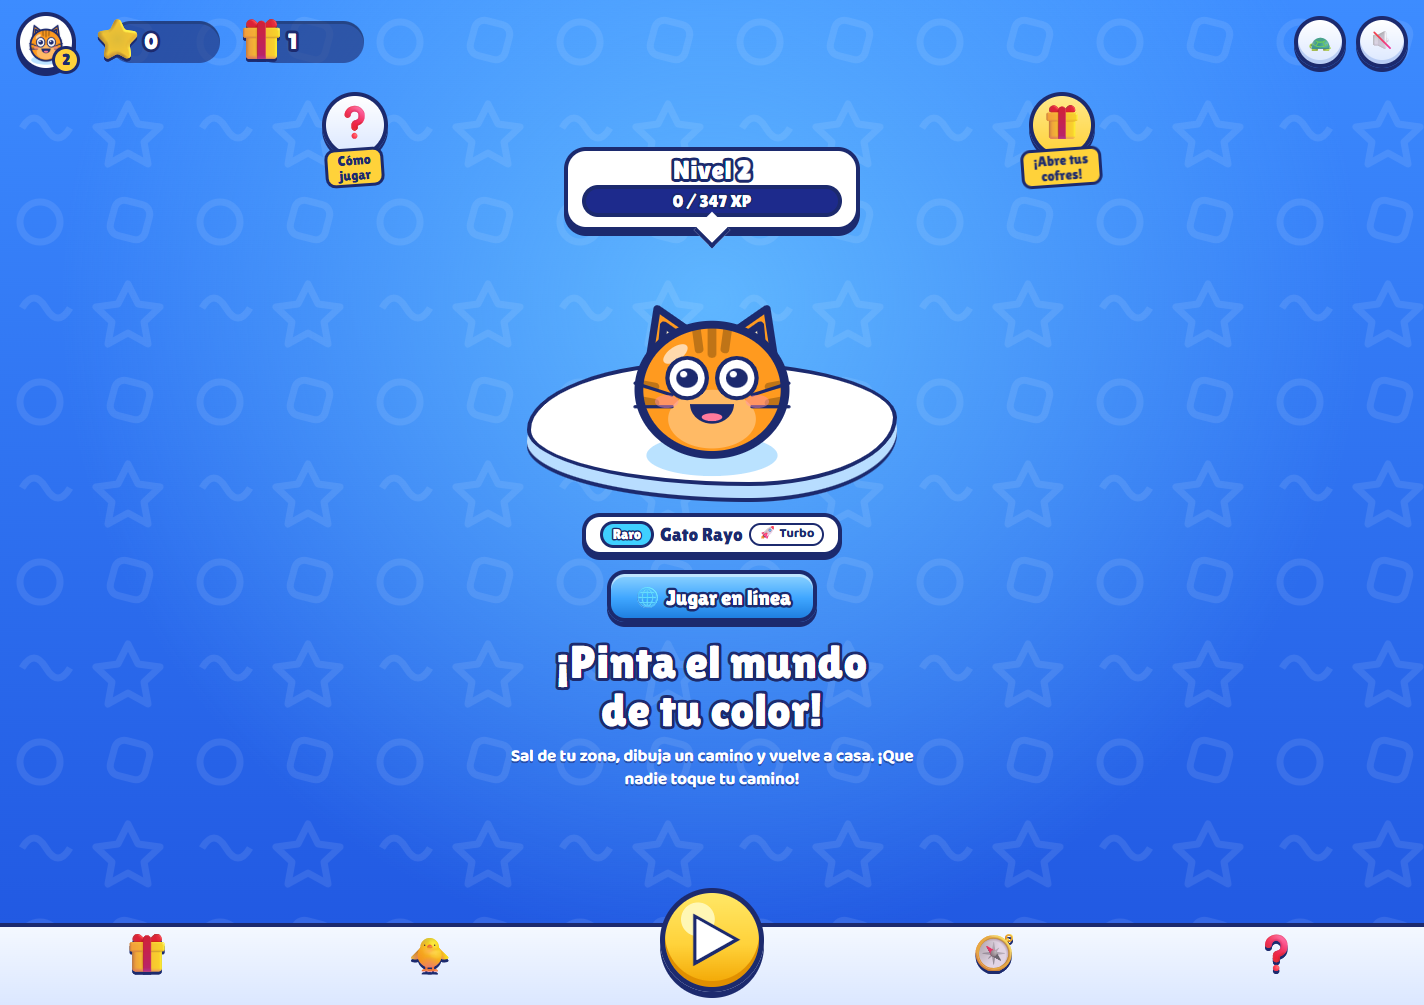
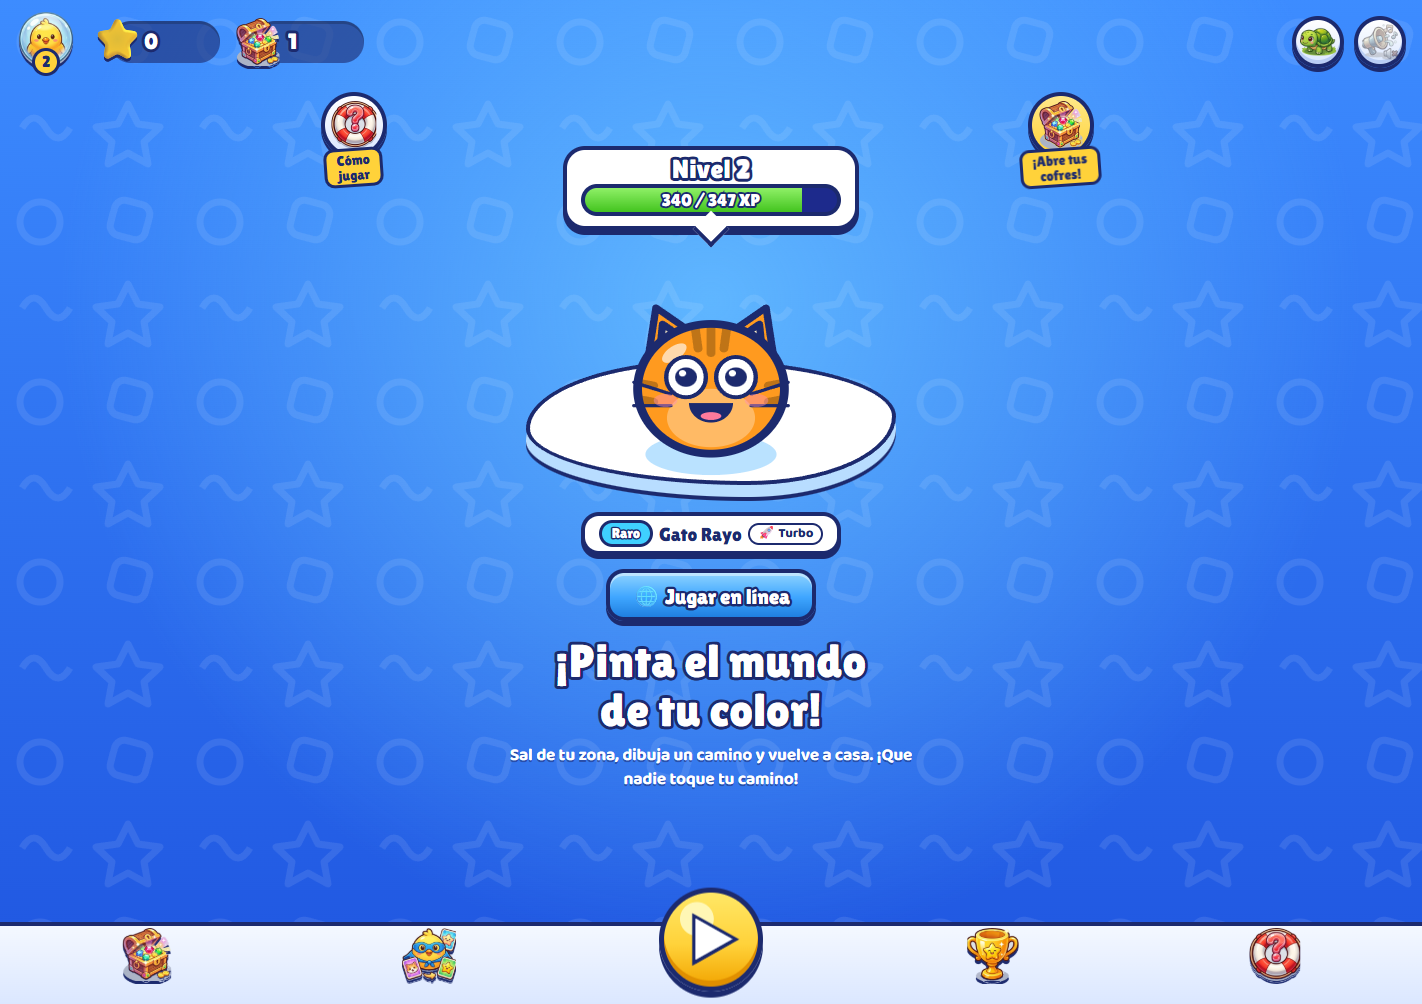
Iconos cartoon en la interfaz
Pestañas, insignia de nivel, contador de cofres, modo fácil, sonido, ayuda y botón de inicio usan las nuevas ilustraciones (ui/), recortadas con fondo transparente.

diff --git a/index.html b/index.html
@@ -46,12 +46,12 @@
   <aside id="rotate-prompt" class="rotate-prompt"><span class="rotate-phone" aria-hidden="true">📱</span><h2 class="outlined">¡Gira el teléfono!</h2><p>Pintamundo se juega de lado.<br>Usa tus dos pulgares.</p></aside>
   <main id="menu" class="menu">
     <header class="topbar">
-      <button class="level-badge" data-tab="progress" aria-label="Ver mi progreso"><img id="menu-avatar" alt=""><span id="menu-level">1</span></button>
+      <button class="level-badge" data-tab="progress" aria-label="Ver mi progreso"><img class="ui-icon" src="ui/level.png" alt=""><span id="menu-level">1</span></button>
       <div class="currency"><span class="currency-icon" aria-hidden="true">⭐</span><strong id="menu-bits">0</strong></div>
-      <div class="currency"><span class="currency-icon" aria-hidden="true">🎁</span><strong id="menu-crates">0</strong></div>
+      <div class="currency"><span class="currency-icon" aria-hidden="true"><img class="ui-icon" src="ui/chest.png" alt=""></span><strong id="menu-crates">0</strong></div>
       <div class="topbar-actions">
-        <button id="easy" class="round-button" aria-pressed="false" aria-label="Modo fácil" title="Modo fácil">🐢</button>
-        <button id="sound" class="round-button" aria-pressed="false" aria-label="Activar sonido">🔇</button>
+        <button id="easy" class="round-button" aria-pressed="false" aria-label="Modo fácil" title="Modo fácil"><img class="ui-icon" src="ui/easy.png" alt=""></button>
+        <button id="sound" class="round-button" aria-pressed="false" aria-label="Activar sonido"><img class="ui-icon" src="ui/sound.png" alt=""></button>
       </div>
     </header>
     <div class="screens">
@@ -62,8 +62,8 @@
         <button id="online" class="online-button">🌐 Jugar en línea</button>
         <h1 class="outlined">¡Pinta el mundo<br>de tu color!</h1>
         <p class="home-tip">Sal de tu zona, dibuja un camino y vuelve a casa. ¡Que nadie toque tu camino!</p>
-        <div class="home-side left"><button class="side-badge" id="help-side" data-help><span>❓</span><b>Cómo<br>jugar</b></button></div>
-        <div class="home-side right"><button class="side-badge" data-tab="crates" id="free-crate-badge" hidden><span>🎁</span><b>¡Abre tus<br>cofres!</b></button><span class="side-badge easy-badge" id="easy-badge" hidden><span>🐢</span><b>Modo<br>fácil</b></span></div>
+        <div class="home-side left"><button class="side-badge" id="help-side" data-help><span><img class="ui-icon" src="ui/help.png" alt=""></span><b>Cómo<br>jugar</b></button></div>
+        <div class="home-side right"><button class="side-badge" data-tab="crates" id="free-crate-badge" hidden><span><img class="ui-icon" src="ui/chest.png" alt=""></span><b>¡Abre tus<br>cofres!</b></button><span class="side-badge easy-badge" id="easy-badge" hidden><span><img class="ui-icon" src="ui/easy.png" alt=""></span><b>Modo<br>fácil</b></span></div>
       </section>
       <section class="screen screen-crates" data-screen="crates" hidden>
         <div class="awning" aria-hidden="true"></div>
@@ -98,11 +98,11 @@
       </section>
     </div>
     <nav class="tabbar" aria-label="Menú principal">
-      <button class="tab" data-tab="crates"><span>🎁</span><b>Cofres</b></button>
-      <button class="tab" data-tab="collection"><span>🐥</span><b>Colección</b></button>
+      <button class="tab" data-tab="crates"><span><img class="ui-icon" src="ui/chest.png" alt=""></span><b>Cofres</b></button>
+      <button class="tab" data-tab="collection"><span><img class="ui-icon" src="ui/collection.png" alt=""></span><b>Colección</b></button>
       <button id="play" class="play-button" aria-label="¡A jugar!"><span id="play-icon">▶</span></button>
-      <button class="tab" data-tab="progress"><span>🧭</span><b>Progreso</b></button>
-      <button id="help" class="tab" data-help><span>❓</span><b>Ayuda</b></button>
+      <button class="tab" data-tab="progress"><span><img class="ui-icon" src="ui/trophy.png" alt=""></span><b>Progreso</b></button>
+      <button id="help" class="tab" data-help><span><img class="ui-icon" src="ui/help.png" alt=""></span><b>Ayuda</b></button>
     </nav>
   </main>
   <dialog id="dialog"><div id="dialog-content"></div></dialog>

diff --git a/game.js b/game.js
@@ -92,7 +92,7 @@ function tone(kind = 'capture') {
 $('sound').onclick = () => {
   sound = !sound; $('sound').setAttribute('aria-pressed', String(sound));
   $('sound').setAttribute('aria-label', sound ? 'Desactivar sonido' : 'Activar sonido');
-  $('sound').textContent = sound ? '🔊' : '🔇'; tone('orb');
+  tone('orb');
 };
 function renderEasy() {
   $('easy').setAttribute('aria-pressed', String(profile.easy === true));
@@ -176,7 +176,6 @@ function renderMenu() {
   $('menu-level').textContent = level;
   $('menu-bits').textContent = number(profile.bits);
   $('menu-crates').textContent = totalChests();
-  $('menu-avatar').src = renderer.portraitURL({ skin: profile.skin, color: playerColor() });
   $('home-level').textContent = level; $('home-xp-label').textContent = xpText; $('home-xp').style.width = xpWidth;
   $('road-level').textContent = 'NIVEL ' + level; $('road-xp').textContent = xpText; $('xp-fill').style.width = xpWidth;
   document.querySelectorAll('[data-road]').forEach(el => {
@@ -201,7 +200,7 @@ function showScreen(name) {
   document.querySelectorAll('.tab[data-tab]').forEach(el => el.classList.toggle('current', el.dataset.tab === name));
   $('menu').dataset.screen = name;
   $('play').classList.toggle('home', name !== 'home');
-  $('play-icon').textContent = name === 'home' ? '▶' : '🏠';
+  $('play-icon').innerHTML = name === 'home' ? '▶' : '<img class="ui-icon" src="ui/home.png" alt="">';
   $('play').setAttribute('aria-label', name === 'home' ? '¡A jugar!' : 'Volver al inicio');
   document.querySelector('.screens').scrollTop = 0;
   renderMenu();

diff --git a/styles.css b/styles.css
@@ -542,3 +542,17 @@ body.spectating .joystick,body.spectating .abilities,body.spectating .danger { d
   .earned-chests .prize-chest { padding:2px 10px; font-size:14px }
   .earned-chests .prize-chest svg { width:36px }
 }
+
+/* Cartoon interface icons (ui/*.png), sized to the button that holds them */
+.ui-icon { display:block; width:1.3em; height:1.3em; object-fit:contain; pointer-events:none; -webkit-user-drag:none; user-select:none }
+.tab>span .ui-icon { width:1.4em; height:1.4em }
+.currency-icon .ui-icon { width:1.2em; height:1.2em }
+.round-button .ui-icon { width:82%; height:82% }
+.side-badge>span .ui-icon { width:82%; height:82% }
+.play-button.home span .ui-icon { width:62px; height:62px }
+#sound[aria-pressed="false"] .ui-icon { filter:grayscale(.8); opacity:.55 }
+/* The level art is already a bubble: no frame; the real level covers the number drawn on it. */
+.level-badge { border:0; background:none; box-shadow:none }
+.level-badge img { border-radius:0; filter:drop-shadow(0 3px 0 var(--ink)) }
+.level-badge span { left:50%; right:auto; bottom:-4px; transform:translateX(-50%) }
+@media(orientation:landscape) and (max-height:560px) { .play-button.home span .ui-icon { width:50px; height:50px } }

diff --git a/README.md b/README.md
@@ -156,6 +156,7 @@ El servidor público está en **https://pintamundo.onrender.com**, creado desde 
 - `game.js`: bucle, joystick multitáctil, HUD, audio, orientación, pantalla completa y persistencia.
 - `cloud.js`: inicio de sesión con Google y copia del perfil en Firestore (solo en la app).
 - `index.html` / `styles.css`: menú y HUD móvil horizontal.
+- `ui/`: iconos cartoon de la interfaz (pestañas, nivel, cofres, modo fácil, sonido, ayuda, inicio), recortados a 192×192 con fondo transparente. Para cambiar uno basta con reemplazar su PNG con el mismo nombre.
 - `server.mjs`: servidor local y de red sin dependencias.
 
 El renderizado limita DPR a 1,5 y partículas a 500. Fronteras y franjas de territorio se cachean al cambiar la cuadrícula. No hay imágenes ni bibliotecas externas. La fuente Baloo 2 se carga desde Google Fonts; sin conexión se usa una fuente del sistema.
